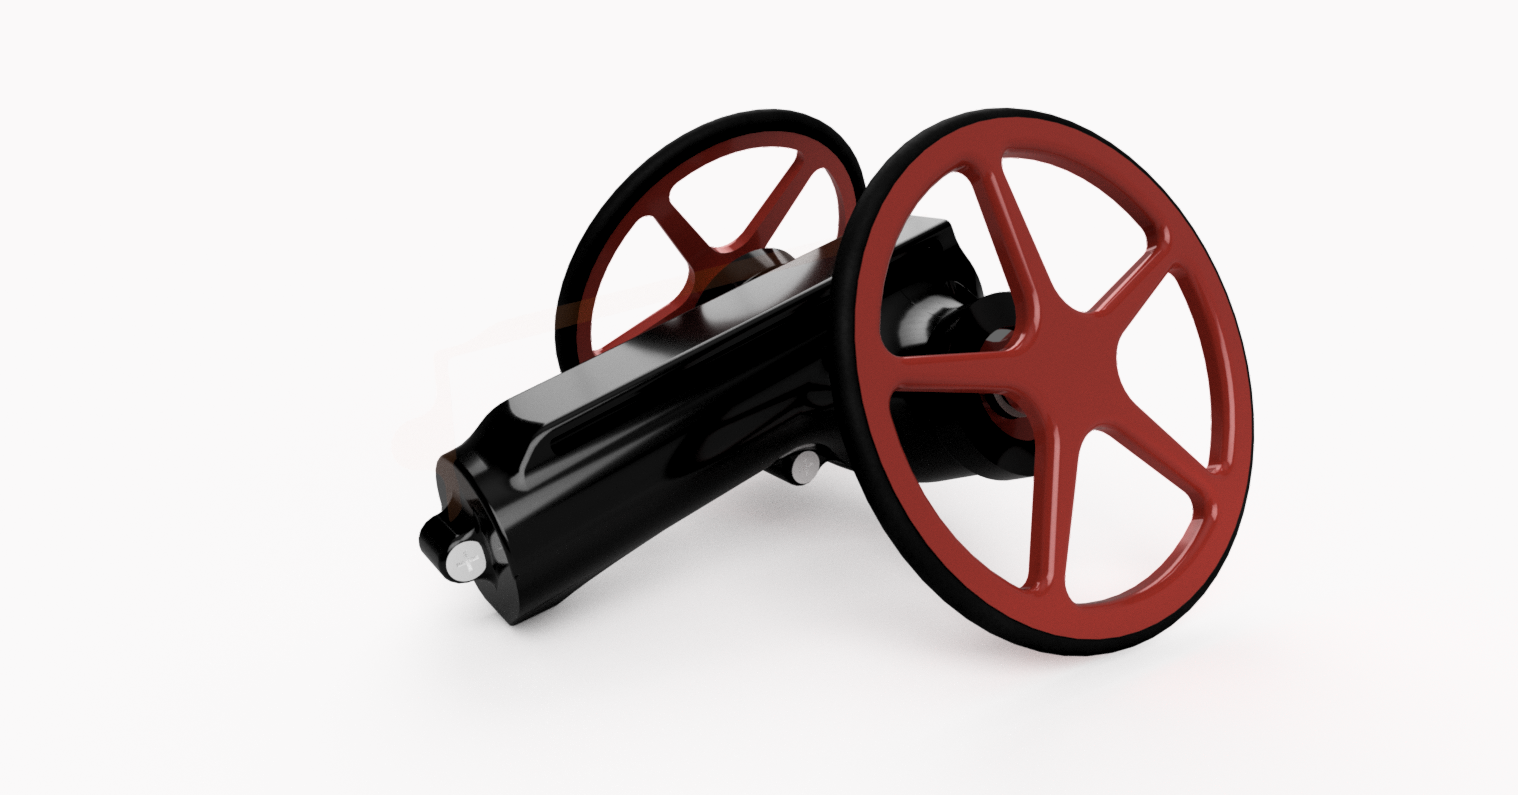
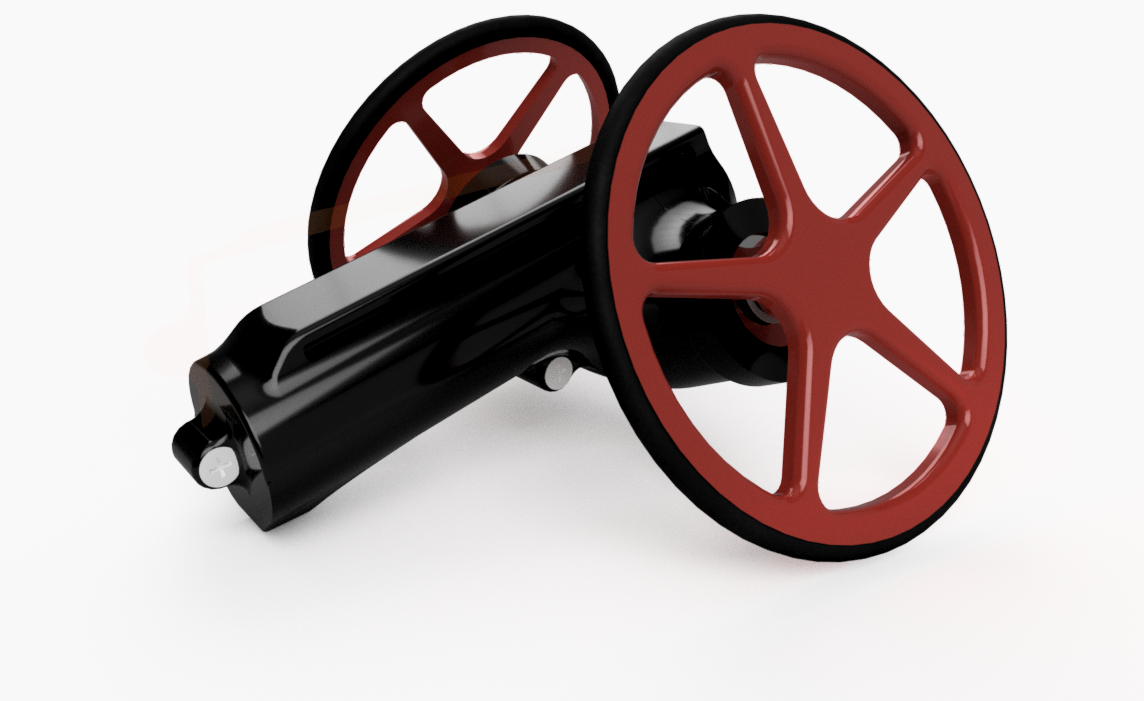
Added pics for mouse and adjusted style a bit

diff --git a/index.html b/index.html
@@ -114,18 +114,19 @@
 		<section class="about" id="bots">
 			<div class="container">
 				<div class="row">
-					<div class="col-md-6 animated wow fadeInRight">
+					<div class="col-md-12 animated wow fadeInRight">
 						<div class="features_list" style="margin-bottom:4em;">
-							<h1 class="text-uppercase text-center">Quick Start</h1>
+							<h1 class="text-uppercase text-center">Meet The Bots</h1>
 						</div>
 					</div>
 					<div id="mouse"></div>
 					<div class="col-md-12 animated wow fadeInLeft pb-robot">
 						<div class="pb-robot">
 							<div class="iphone">
-								<img src="img/iphone.png" alt="" title="">
+								<img src="img/_pakobots/mousev1/assembly v18.png" alt="" title="">
 							</div>
 						</div>
+						<div><h4>Mouse Version 1.0.0</h4></div>
 						<div class="pb-robot-btns">
 							<a href="instructions/mouse_v1.html#quick" class="pb-robot-btn"><i class="fa fa-flash"></i> Quick Start</a>
 							<a href="instructions/mouse_v1.html#bom" class="pb-robot-btn"><i class="fa fa-cubes"></i> Bill Of Materials (BOM)</a>
